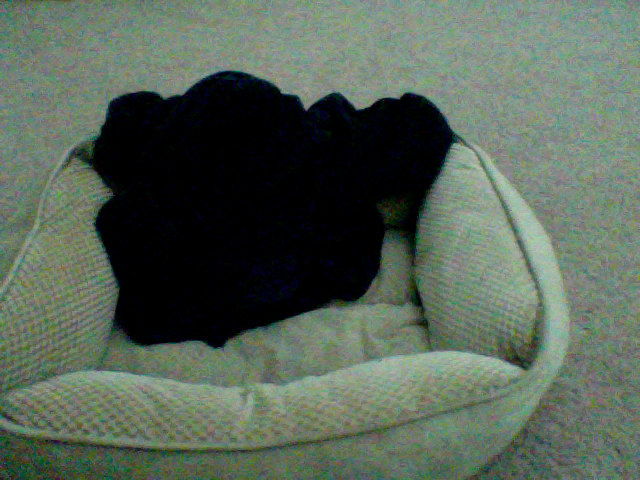
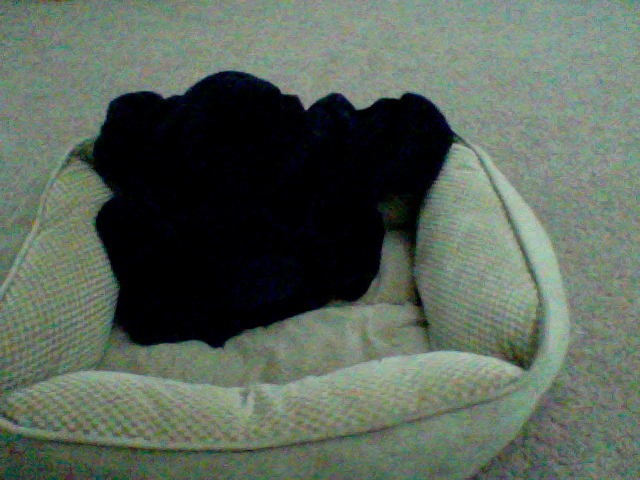
update at Month05Day08Time12:40

Changed region(s): [[0.0, 0.0, 1.0, 1.0], [0.4375, 0.5938, 0.4688, 0.625], [0.4375, 0.5312, 0.4688, 0.5625]]

diff --git a/index.html b/index.html
@@ -39,8 +39,8 @@
       <!-- Example row of columns -->
       <div class="row">
         <div class="col-md-4">
-	<p>This picture was updated at Month05Day08Time12:39</p>
-		<img src="5_pic.png" />
+	<p>This picture was updated at Month05Day08Time12:40</p>
+		<img src="7_pic.png" />
         </div>
       </div>
 
